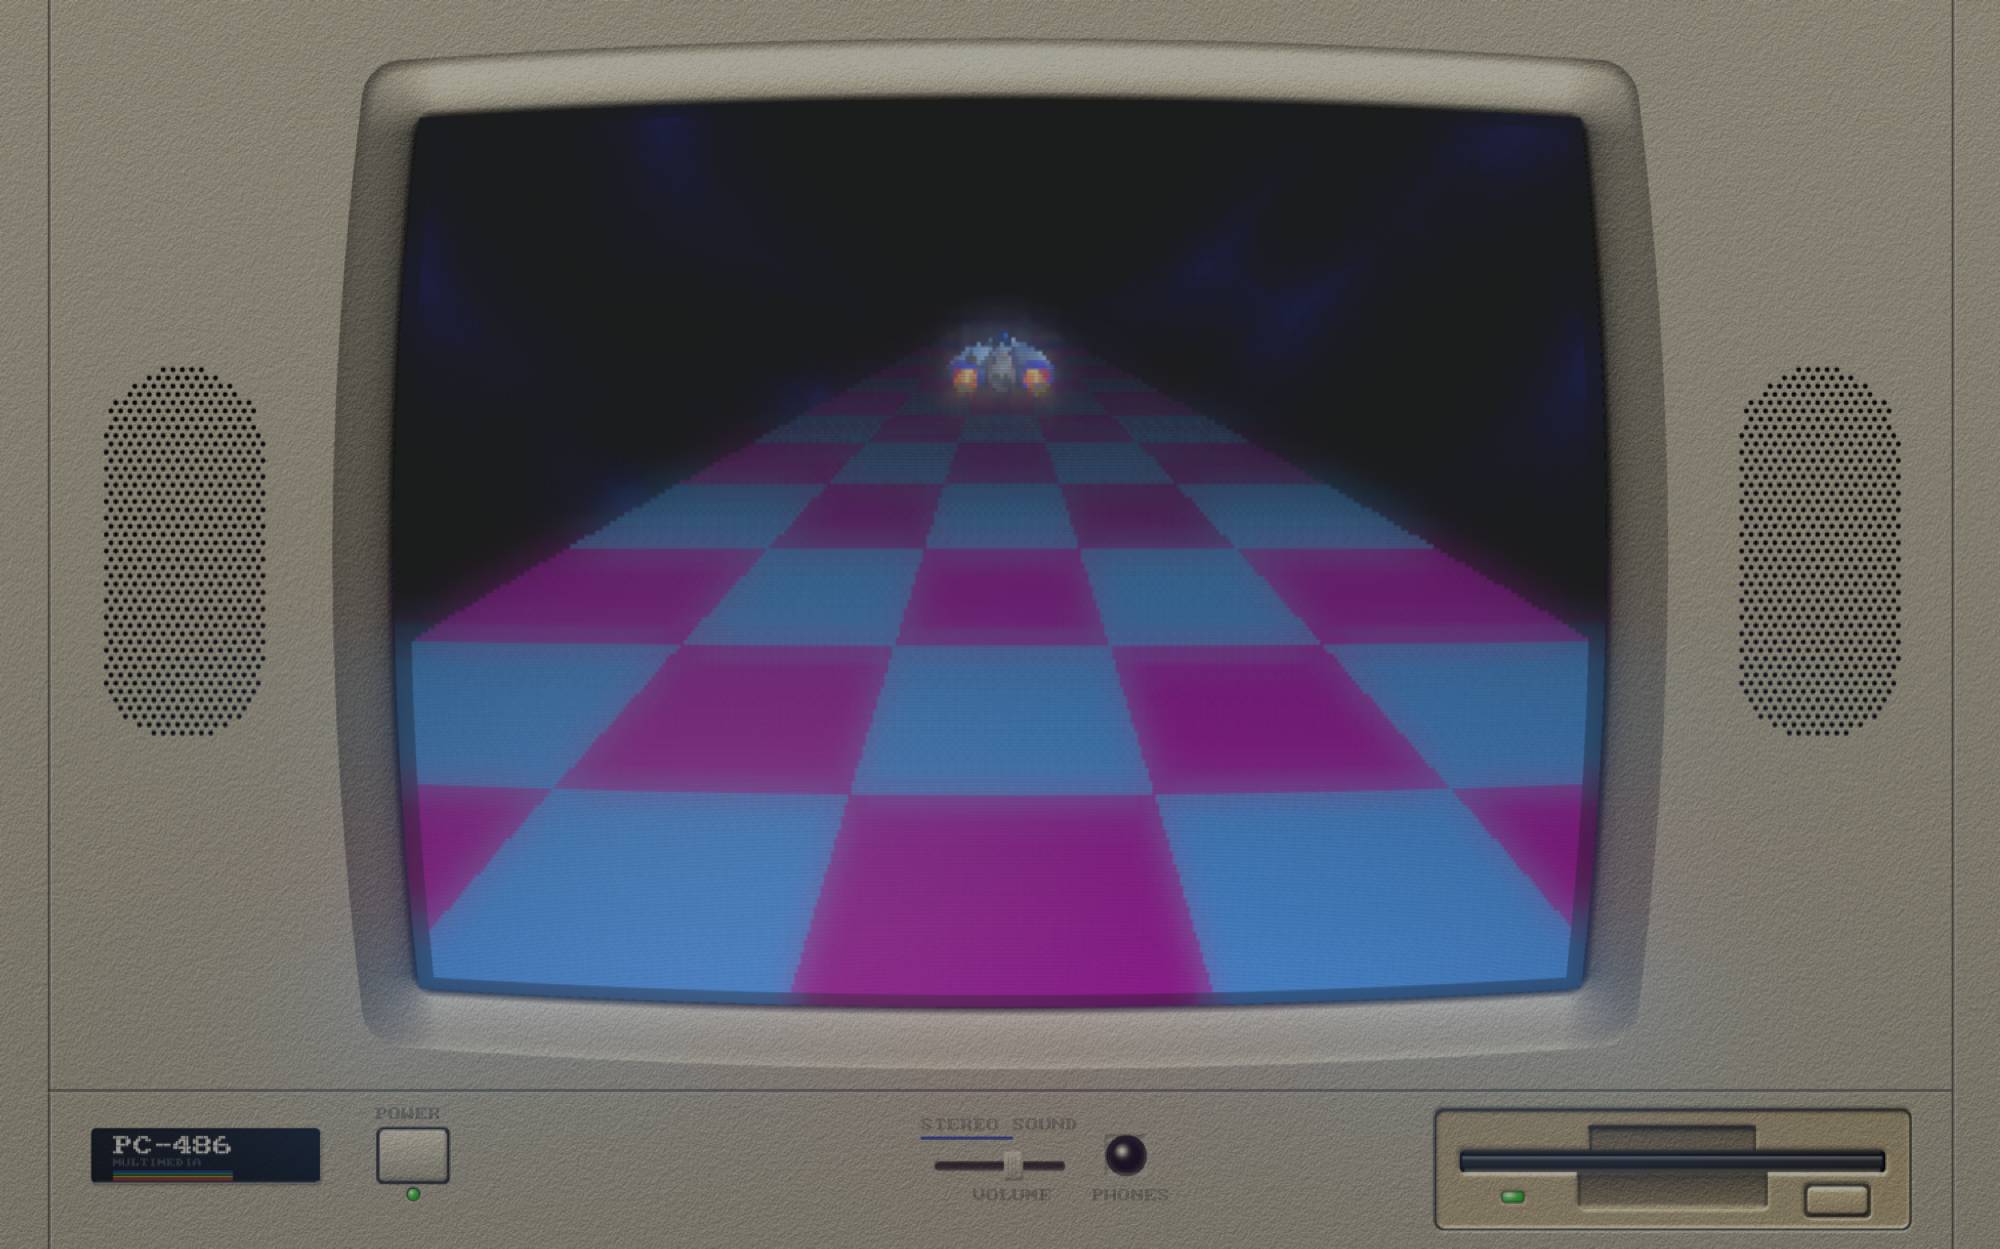
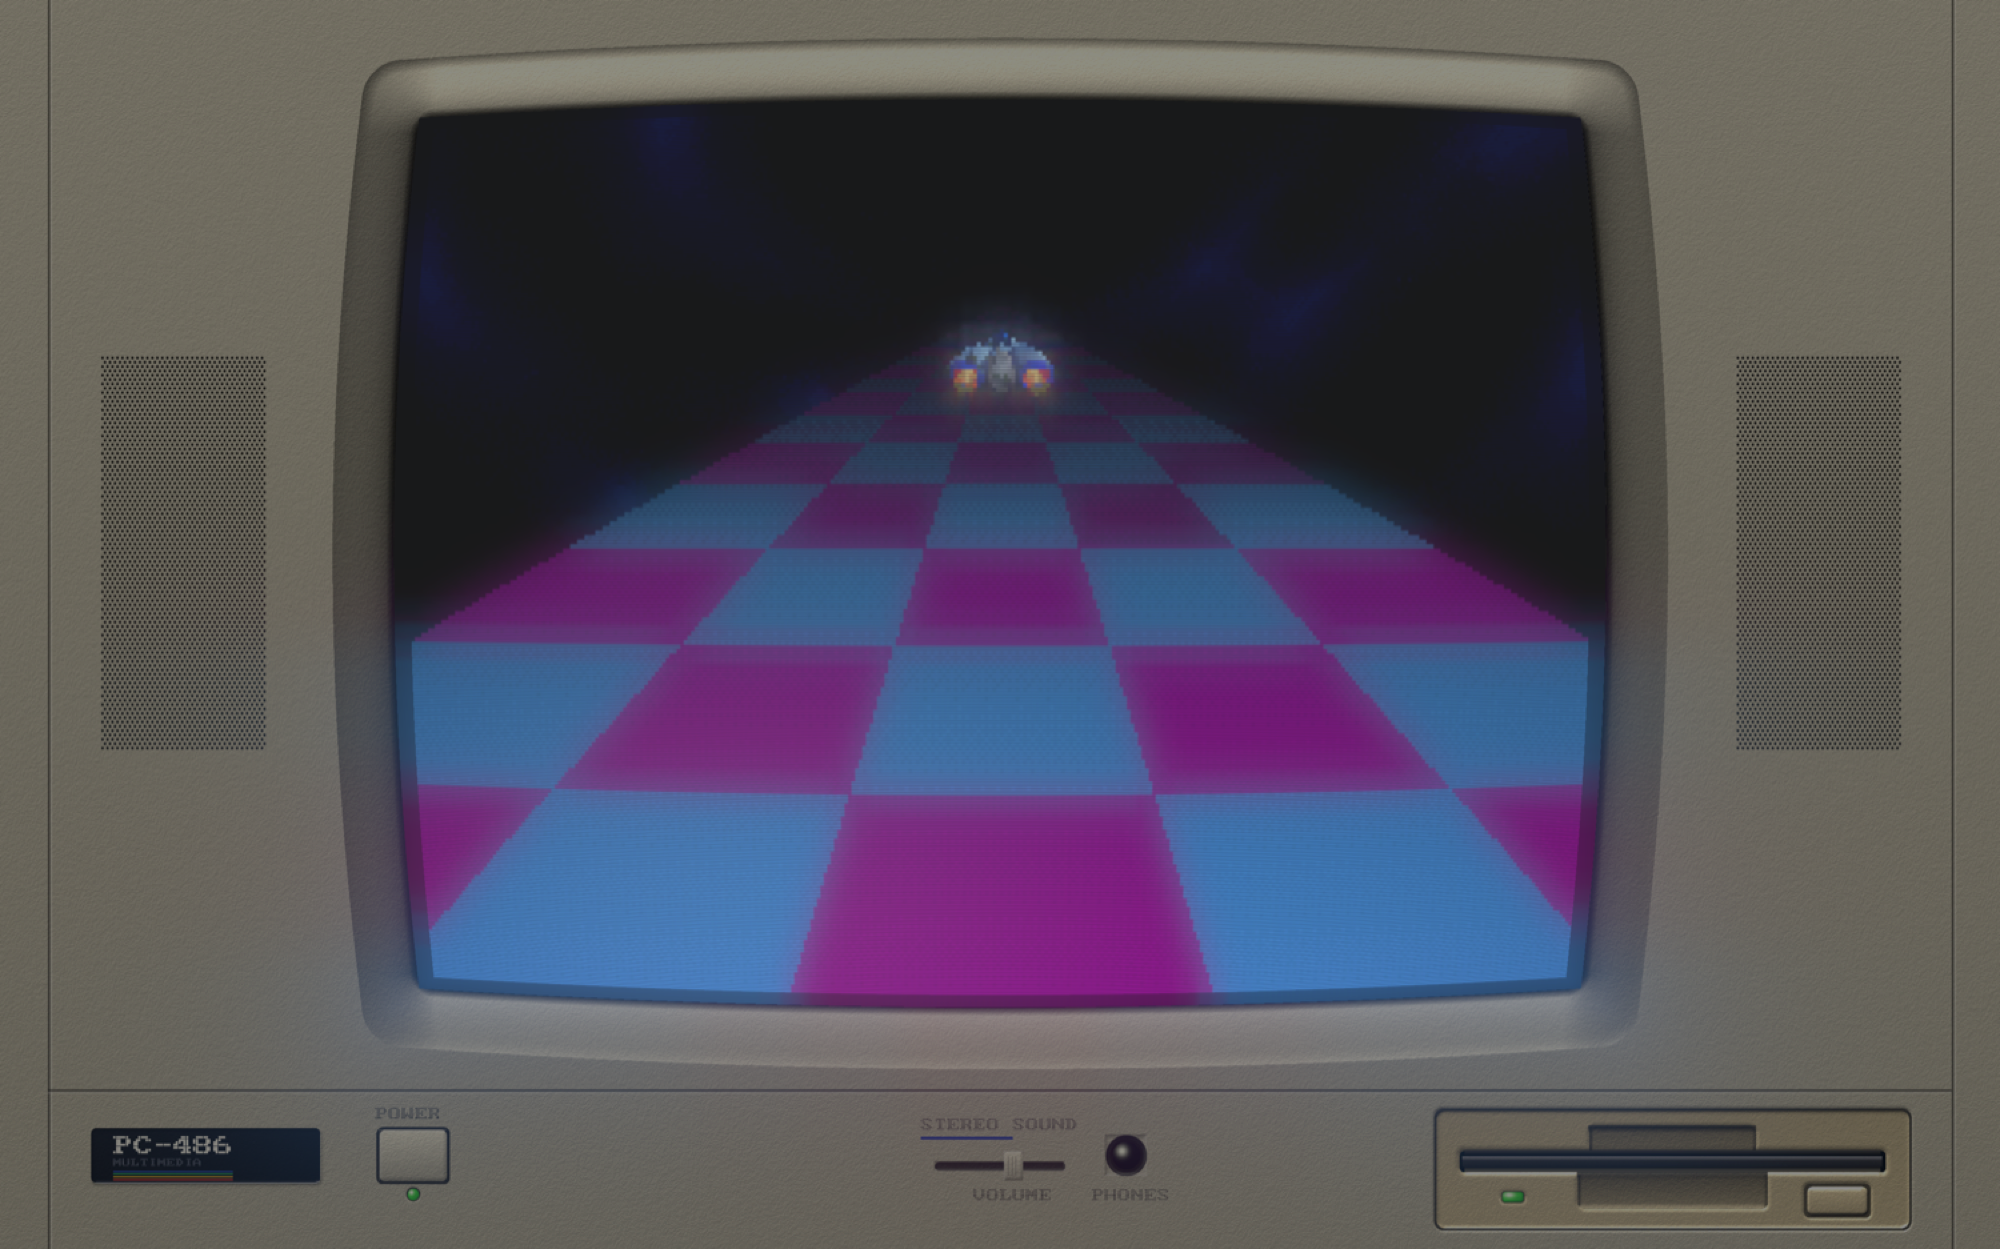
feat: implement procedural machine ambience engine including fan, spindle, and PC speaker sounds

diff --git a/src/sound.c b/src/sound.c
@@ -1,0 +1,128 @@
+/* sound.c — procedural machine ambience.  No samples: everything is
+ * synthesised, so it costs nothing to ship and scales to any rate. */
+#include "sound.h"
+#include <math.h>
+#include <string.h>
+
+static int    SR = 44100;
+
+/* deterministic noise source — same on every platform (SPEC §6.7 in spirit) */
+static uint32_t rng = 0x1234567u;
+static float nrand(void){
+    rng ^= rng<<13; rng ^= rng>>17; rng ^= rng<<5;
+    return (float)((int32_t)rng) / 2147483648.0f;
+}
+
+/* ---- PC speaker ---------------------------------------------------------
+ * The 8253 channel 2 drove the cone with a raw SQUARE wave; the BIOS loaded
+ * divisor 0x533, so 1193182/1331 = 896.5 Hz. */
+#define PCSPK_HZ (1193182.0/1331.0)
+static volatile int spk_left, spk_total;
+static double       spk_phase;
+
+/* ---- machine hum --------------------------------------------------------
+ * Measured from a reference recording of a real desktop PC humming
+ * (Goertzel over the steady section):
+ *
+ *   partials   293 Hz  0 dB | 213 -6 | 164 -8 | 178 -8 | 129 -15
+ *              331 -16 | 351 -17 | 421 -19
+ *   bands      125-500 Hz dominates; 2-8 kHz sits 20-34 dB down
+ *
+ * So the sound is a TONAL CLUSTER in the low mids - fan blade tones, the
+ * transformer and the spindle beating against each other - not the
+ * broadband hiss this replaces.  Nearby partials (164/178) beat slowly,
+ * which is what gives it life. */
+/* Three distinct sources, because they behave differently:
+ *
+ *  BODY HUM  low-mid cluster around 294 Hz - the case and transformer.
+ *            Quiet; it is the floor, not the sound.
+ *  SPINDLE   a 3.5" drive's audible whine lives in the KILOHERTZ, not down
+ *            near its 60 Hz rotation - what you hear is high-order bearing
+ *            and platter noise.  This is the "disk" sound.
+ *  FAN       broadband air, centred well above the body hum, and it FADES
+ *            IN as the blades come up to speed rather than appearing.      */
+#define NHUM 3
+static const float hum_hz[NHUM]  = {213.0f, 294.0f, 398.0f};
+static const float hum_amp[NHUM] = {0.30f, 1.00f, 0.16f};
+
+#define NWHINE 4
+static const float whine_hz[NWHINE]  = {2640.0f, 3115.0f, 4180.0f, 5220.0f};
+static const float whine_amp[NWHINE] = {1.00f, 0.58f, 0.30f, 0.13f};
+
+static double hum_ph[NHUM], hum_drift[NHUM];
+static double wh_ph[NWHINE], wh_drift[NWHINE];
+static float  fan_lp1, fan_lp2, fan_hp, hiss_lp;
+static float  spin = 0.0f;        /* spindle: 0 stopped .. 1 at speed */
+static float  fan_env = 0.0f;     /* fan blades, slower to come up     */
+static int    powered = 0;
+
+void snd_init(int rate){ SR = rate>0?rate:44100; }
+void snd_power(int on){ powered = on; }
+void snd_beep(double ms){
+    spk_total = spk_left = (int)(SR*ms/1000.0);
+    spk_phase = 0.0;
+}
+void snd_disk(double seconds){ (void)seconds; }   /* head seeks removed */
+
+void snd_mix(int16_t *out,int nframes){
+    double sr = SR;
+    for(int i=0;i<nframes;i++){
+        float s = 0.0f;
+        float target = powered ? 1.0f : 0.0f;
+        spin    += (target-spin)    * (float)(1.0/(sr*2.2));  /* platter  */
+        fan_env += (target-fan_env) * (float)(1.0/(sr*4.0));  /* fade in  */
+
+        if(spin > 0.002f){
+            /* --- body hum --- */
+            float body = 0.0f;
+            for(int k=0;k<NHUM;k++){
+                hum_drift[k] += (0.09 + 0.031*k)/sr;
+                float det = 1.0f + 0.0018f*(float)sin(hum_drift[k]*6.28318530718);
+                hum_ph[k] += (hum_hz[k]*det*spin)/sr;
+                body += hum_amp[k]*(float)sin(hum_ph[k]*6.28318530718);
+            }
+            s += body * 0.012f * spin;
+
+            /* --- spindle whine: the actual disk sound, up in the kHz --- */
+            float wh = 0.0f;
+            for(int k=0;k<NWHINE;k++){
+                wh_drift[k] += (0.23 + 0.07*k)/sr;
+                float det = 1.0f + 0.0022f*(float)sin(wh_drift[k]*6.28318530718);
+                /* pitch rises with the platter, so spin-up sweeps upward */
+                wh_ph[k] += (whine_hz[k]*det*(0.55f+0.45f*spin))/sr;
+                wh += whine_amp[k]*(float)sin(wh_ph[k]*6.28318530718);
+            }
+            s += wh * 0.0042f * spin*spin;
+        }
+
+        if(fan_env > 0.002f){
+            /* --- fan: airy broadband, one pole at ~2.2 kHz, plus a little
+             * body so it is not pure hiss --- */
+            float n = nrand();
+            fan_lp1 += (n       - fan_lp1)*0.150f;
+            fan_lp2 += (fan_lp1 - fan_lp2)*0.150f;
+            fan_hp  += (fan_lp2 - fan_hp )*0.010f;      /* DC / rumble trap */
+            s += (fan_lp2 - fan_hp) * 0.034f * fan_env;
+            hiss_lp += (n - hiss_lp)*0.55f;
+            s += hiss_lp * 0.0025f * fan_env;
+        }
+
+        /* --- PC speaker on top --- */
+        if(spk_left > 0){
+            float env = 1.0f;
+            int done = spk_total - spk_left;
+            if(done < SR/200)     env = done/(float)(SR/200);
+            if(spk_left < SR/73)  env = fminf(env, spk_left/(float)(SR/73));
+            float sq = (spk_phase - floor(spk_phase) < 0.5) ? 1.0f : -1.0f;
+            s += sq * env * 0.16f;
+            spk_phase += PCSPK_HZ/sr;
+            spk_left--;
+        }
+
+        int v = (int)(s * 32767.0f);
+        int l = out[i*2]   + v; if(l>32767)l=32767; if(l<-32768)l=-32768;
+        int r = out[i*2+1] + v; if(r>32767)r=32767; if(r<-32768)r=-32768;
+        out[i*2]   = (int16_t)l;
+        out[i*2+1] = (int16_t)r;
+    }
+}

diff --git a/src/chassis.c b/src/chassis.c
@@ -86,7 +86,11 @@ static float plastic_height(float x,float y){
 }
 /* Returns a shading offset: lit facets brighten, facets turned away darken,
  * and the pits between grains pick up a little occlusion. */
+/* Printed labels are smooth: they are ink on a flat substrate, not moulded
+ * plastic, so the embossed grain must not run under them. */
+static int g_grain = 1;
 static float plastic_tex(int x,int y){
+    if(!g_grain) return 0.0f;
     float h  = plastic_height((float)x,      (float)y);
     float hx = plastic_height((float)x+1.0f, (float)y);
     float hy = plastic_height((float)x,      (float)y+1.0f);
@@ -273,36 +277,36 @@ static void grille_panel(canvas *c,float x,float y,float w,float h,float pitch){
      * lighter at its bottom, an overhang shadow inside the top edge, a
      * faint lit lip on the plastic below, soft anti-aliased rim. */
     float ccx=x+w*0.5f, ccy=y+h*0.5f;
-    float hw=w*0.40f, hh=h*0.42f;
-    float crad=fminf(hw,hh);
-    float hp=fmaxf(3.0f,pitch*0.40f);            /* hole pitch  */
-    float hr=hp*0.28f;                           /* hole radius */
+    float hw=w*0.40f, hh=h*0.44f;
+    float crad=fminf(hw,hh)*0.09f;      /* rectangular, corners just eased */
+    float hp=fmaxf(2.0f,pitch*0.21f);            /* hole pitch  */
+    float hr=hp*0.25f;                           /* hole radius */
     int row=0;
     for(float cy2=y+hp; cy2<y+h-hp*0.5f; cy2+=hp*0.87f,row++){
         float ox=(row&1)? hp*0.5f : 0.0f;
         for(float cx2=x+hp+ox; cx2<x+w-hp*0.5f; cx2+=hp){
             /* only holes fully inside the capsule */
             if(rr_sd(cx2,cy2,ccx,ccy,hw,hh,crad) > -hr*1.2f) continue;
-            for(int j2=(int)(cy2-hr-2);j2<=(int)(cy2+hr+3);j2++)
-                for(int i2=(int)(cx2-hr-2);i2<=(int)(cx2+hr+3);i2++){
-                    float dx=(i2-cx2)/hr, dy=(j2-cy2)/hr;
-                    float d=sqrtf(dx*dx+dy*dy);
-                    if(d<=1.0f){
-                        /* interior: dark, lighter toward the bottom, with
-                         * the overhang shadow filling the top */
-                        float v=16.0f+10.0f*fmaxf(0.0f,dy);
-                        if(dy<-0.2f) v*=0.62f;
-                        float a=fminf(1.0f,(1.0f-d)/0.18f);   /* AA rim */
-                        px_blend(c,i2,j2,(int)v,(int)v,(int)(v*1.04f),
-                                 0.35f+0.65f*a);
-                    } else if(d<=1.55f){
-                        float t=(d-1.0f)/0.55f;
-                        if(dy>0.3f)          /* lit lip below the hole */
-                            px_shade(c,i2,j2,1.0f+0.14f*(1.0f-t)*dy/d,
-                                     (1.0f-t)*0.03f);
-                        else if(dy<-0.3f)    /* soft shadow above */
-                            px_shade(c,i2,j2,1.0f-0.10f*(1.0f-t)*(-dy/d),0.0f);
+            /* At this pitch a hole spans only a few pixels, so shade it by
+             * ANALYTIC COVERAGE rather than discrete zones - otherwise the
+             * rim aliases and the grid reads as ragged dots. */
+            for(int j2=(int)(cy2-hr-2);j2<=(int)(cy2+hr+2);j2++)
+                for(int i2=(int)(cx2-hr-2);i2<=(int)(cx2+hr+2);i2++){
+                    float dxp=i2+0.5f-cx2, dyp=j2+0.5f-cy2;
+                    float d=sqrtf(dxp*dxp+dyp*dyp);
+                    float cov=hr-d+0.5f;              /* pixel coverage */
+                    if(cov<=0.0f){
+                        /* just outside: a whisper of lit lip below the hole */
+                        if(cov>-1.2f && dyp>0.0f)
+                            px_shade(c,i2,j2,1.0f+0.10f*(1.2f+cov)/1.2f
+                                     *(dyp/fmaxf(d,0.001f)),0.0f);
+                        continue;
                     }
+                    if(cov>1.0f) cov=1.0f;
+                    float u=dyp/fmaxf(hr,0.001f);     /* -1 top .. +1 bottom */
+                    float v=15.0f+11.0f*fmaxf(0.0f,u);/* floor lit at bottom */
+                    if(u<-0.15f) v*=0.60f;            /* overhang shadow     */
+                    px_blend(c,i2,j2,(int)v,(int)v,(int)(v*1.04f),cov);
                 }
         }
     }
@@ -709,6 +713,7 @@ uint8_t *chassis_render(const dxm_layout *L,int W,int H){
         float pbw=fminf(W*0.115f,L->tube_h*0.34f);
         float pbh=fminf(band_h*0.52f,pbw*0.42f);
         float pbx=edge+inset*0.65f, pby=mid-pbh*0.5f;
+        g_grain=0;                       /* the badge is a printed label */
         rrect(c,pbx,pby,pbw,pbh,pbh*0.10f,0x22,0x26,0x30,1.0f,0.82f);
         housing_edge(c,pbx,pby,pbw,pbh,pbh*0.10f,
                      fmaxf(2.0f,pbh*0.09f),fmaxf(2.0f,pbh*0.08f),0,1.0f);
@@ -719,6 +724,7 @@ uint8_t *chassis_render(const dxm_layout *L,int W,int H){
           for(int k=0;k<4;k++)
             rect(c,pbx+pbw*0.10f,pby+pbh*(0.78f+k*0.048f),pbw*0.52f,
                  fmaxf(1.0f,pbh*0.030f),cols[k][0],cols[k][1],cols[k][2]); }
+        g_grain=1;
 
         /* power button + status LEDs */
         float px0=pbx+pbw+inset*0.85f;

diff --git a/src/dos.c b/src/dos.c
@@ -16,6 +16,11 @@ static uint8_t fb[DOS_W*DOS_H*3];
 static char   launch[32];
 static int    launch_pending;
 static int    sky_installed = 1;   /* v0: data ships with the dev checkout */
+static int    beep_pending;        /* POST beep, fired after the RAM count */
+static int    mem_counting;        /* the memory test is spinning          */
+static double mem_next;            /* next number update                   */
+static long   mem_shown;           /* KB counted so far                    */
+static int    mem_row, mem_col;    /* where to overwrite the digits        */
 
 static void scroll(void){
     memmove(scr[0],scr[1],(DOS_ROWS-1)*DOS_COLS);
@@ -35,7 +40,7 @@ static const char *BOOT[] = {
   "DXM BIOS v1.0  (C) 2026 DOS ex Machina",
   "",
   "Main Processor  : 80486DX2  66 MHz",
-  "Memory Test     : 655360 OK",
+  "Memory Test     : ",          /* counted live, see dos_update */
   "",
   "Fixed Disk 0    : DXM-VIRTUAL  512 MB",
   "Floppy Disk A   : 1.44 MB, 3.5 in.",
@@ -48,6 +53,7 @@ static const char *BOOT[] = {
 void dos_init(void){
     memset(scr,' ',sizeof scr);
     cur_r=cur_c=0; line_n=0; st=DOS_BOOT; boot_step=0; t0=-1; launch_pending=0;
+    beep_pending=0; mem_counting=0; mem_shown=0;
 }
 void dos_core_exited(void){
     put('\n'); prompt(); st=DOS_PROMPT; line_n=0;
@@ -126,10 +132,57 @@ void dos_key(int ch,int sc){
     (void)sc;
 }
 
+/* The PC speaker POST beep: taken once, at power-on. */
+int dos_take_beep(void){ int b=beep_pending; beep_pending=0; return b; }
+
+/* The RAM count spins in place: the BIOS printed the running total and
+ * overwrote it, so we hold the cursor at the digits and rewrite them. */
+#define MEM_TOTAL_KB 655360L
+#define MEM_STEP_KB  8192L          /* the count visibly steps, not smooth */
+
+static void mem_draw(long kb){
+    char buf[24];
+    snprintf(buf,sizeof buf,"%ld KB",kb);
+    int c=mem_col;
+    for(const char *p=buf;*p&&c<DOS_COLS;p++) scr[mem_row][c++]=*p;
+    while(c<DOS_COLS && c<mem_col+12) scr[mem_row][c++]=' ';
+}
+
 dos_state dos_update(double t){
     if(t0<0){ t0=t; next_boot=t+0.35; }
+
+    if(mem_counting){
+        if(t>=mem_next){
+            mem_shown+=MEM_STEP_KB;
+            if(mem_shown>=MEM_TOTAL_KB){
+                mem_shown=MEM_TOTAL_KB;
+                mem_draw(mem_shown);
+                { int c=mem_col+11; const char *ok=" OK";
+                  for(const char *p=ok;*p&&c<DOS_COLS;p++) scr[mem_row][c++]=*p; }
+                mem_counting=0;
+                cur_c=0; if(++cur_r>=DOS_ROWS) scroll();   /* close the line */
+                beep_pending=1;           /* POST beep AFTER the RAM check */
+                next_boot=t+0.45;
+            } else {
+                mem_draw(mem_shown);
+                mem_next=t+0.010;
+            }
+        }
+        return st;                        /* boot text pauses while counting */
+    }
+
     if(st==DOS_BOOT && t>=next_boot){
-        if(BOOT[boot_step]){ sayln(BOOT[boot_step++]); next_boot=t+0.16; }
+        if(BOOT[boot_step]){
+            const char *ln=BOOT[boot_step++];
+            say(ln);
+            if(strstr(ln,"Memory Test")){ /* start the live count here */
+                mem_row=cur_r; mem_col=cur_c;
+                mem_counting=1; mem_shown=0; mem_next=t;
+                return st;
+            }
+            put('\n');
+            next_boot=t+0.16;
+        }
         else { st=DOS_PROMPT; prompt(); }
     }
     return st;

diff --git a/src/main.c b/src/main.c
@@ -10,6 +10,8 @@
 #include "corehost.h"
 #include "dxm_core.h"
 #include "crt.h"
+#include "sound.h"
+#include <math.h>
 
 static int sc_from_sdl(SDL_Scancode s){
     switch(s){
@@ -24,12 +26,16 @@ static int sc_from_sdl(SDL_Scancode s){
         default: return 0;
     }
 }
+static FILE *g_audio_dump;   /* --dump-audio, dev verification */
+
 static void audio_cb(void *ud,SDL_AudioStream *st,int add,int total){
     (void)ud;(void)total;
     if(add<=0) return;
     static int16_t buf[4096];
     int frames=add/4; if(frames>2048) frames=2048;
     corehost_audio(buf,frames);
+    snd_mix(buf,frames);
+    if(g_audio_dump){ fwrite(buf,4,(size_t)frames,g_audio_dump); }
     SDL_PutAudioStreamData(st,buf,frames*4);
 }
 static void write_bmp(const char *path,const uint8_t *rgb,int w,int h){
@@ -53,7 +59,9 @@ int main(int argc,char **argv){
     float ambient=0.4f;             /* room light: 0 dark room .. 1 bright */
     int win_w=1600, win_h=900;
     for(int i=1;i<argc;i++){
-        if(!strcmp(argv[i],"--windowed")) windowed=1;
+        if(!strcmp(argv[i],"--dump-audio")&&i+1<argc)
+            g_audio_dump=fopen(argv[++i],"wb");
+        else if(!strcmp(argv[i],"--windowed")) windowed=1;
         else if(!strcmp(argv[i],"--selftest")){ selftest=1; windowed=1; }
         else if(!strcmp(argv[i],"--shot")&&i+1<argc) shot=argv[++i];   /* honours fullscreen */
         else if(!strcmp(argv[i],"--frames")&&i+1<argc) shot_frames=atoi(argv[++i]);
@@ -99,6 +107,9 @@ int main(int argc,char **argv){
     SDL_AudioStream *ast=SDL_OpenAudioDeviceStream(
         SDL_AUDIO_DEVICE_DEFAULT_PLAYBACK,&as,audio_cb,NULL);
     if(ast) SDL_ResumeAudioStreamDevice(ast);
+    snd_init(44100);
+    snd_power(1);                 /* fans and spindle spin up */
+    snd_disk(2.4);                /* boot-time drive chatter  */
 
     dos_init();
 
@@ -183,13 +194,15 @@ int main(int argc,char **argv){
         if(req){
             const dxm_core_info *info=sky_core_info();
             const char *dd=getenv("DXM_DATA");
+            snd_disk(1.6);        /* the drive works while it loads */
             corehost_start(info, dd?dd:"/Users/pedro/Git/skyroads-mac/data");
         }
+        if(dos_take_beep()) snd_beep(240.0);  /* after the RAM check */
         if(autocmd && dos_update(t)==DOS_PROMPT){       /* wait for the prompt */
             for(const char *q=autocmd;*q;q++) dos_key(*q,0);
             dos_key('\r',0); autocmd=NULL;
         }
-        if(dos_update(t)==DOS_OFF) quit=1;
+        if(dos_update(t)==DOS_OFF){ snd_power(0); quit=1; }
 
         /* pick the tube source: the running core, or the DOS text screen */
         int cw,ch,cl;

diff --git a/src/sound.h b/src/sound.h
@@ -1,0 +1,13 @@
+/* sound.h — everything the SHELL makes noise with (SPEC §9).  The game core
+ * renders its own audio; this is the machine around it: PC speaker, PSU fan,
+ * hard disk spindle and head seeks. */
+#ifndef DXM_SOUND_H
+#define DXM_SOUND_H
+#include <stdint.h>
+
+void snd_init(int rate);
+void snd_power(int on);              /* fans + spindle spin up / down       */
+void snd_beep(double ms);            /* PC speaker POST beep                */
+void snd_disk(double seconds);       /* head seek chatter for a while       */
+void snd_mix(int16_t *out,int nframes);   /* additive, s16 stereo           */
+#endif

diff --git a/src/dos.h b/src/dos.h
@@ -12,4 +12,5 @@ dos_state  dos_update(double t);
 const uint8_t *dos_render(void);        /* DOS_W x DOS_H RGB8 */
 const char *dos_launch_request(void);   /* non-NULL once, when a game starts */
 void       dos_core_exited(void);
+int        dos_take_beep(void);    /* 1 once when the POST beep should sound */
 #endif
